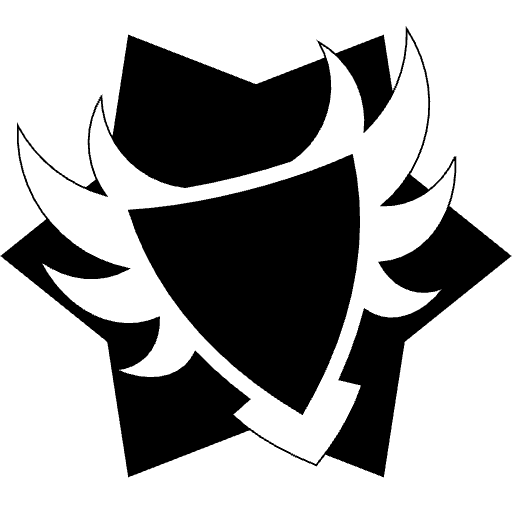
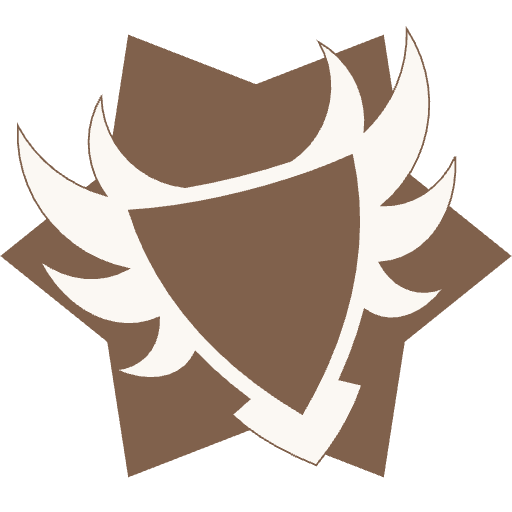
Japandi design, Home, colour mode, coloured badges

diff --git a/web/js/config.js b/web/js/config.js
@@ -8,7 +8,7 @@
 export const SUPABASE_URL = 'https://slokwrjyizqqcbxcrnbh.supabase.co'; // Portal project (care-therapist-portal)
 export const SUPABASE_ANON_KEY = 'sb_publishable_6B2Mgs05Hxe29-dqVz7h1w_wj59BmzD'; // publishable = public, safe to commit
 
-export const APP_VERSION = 'v2026-11-16-P2b';
+export const APP_VERSION = 'v2026-11-16-P2c';
 
 // Kept different from the Binder's key ('care_auth'): both apps live on the same
 // github.io address, so they share browser storage. Distinct keys keep the two

diff --git a/web/css/app.css b/web/css/app.css
@@ -514,3 +514,7 @@ code.pw { background: var(--surface); }
   .topbar .theme-btn { padding: 6px 9px; }
   .me { gap: 4px 8px; }
 }
+
+/* Badges are now coloured artwork: keep the ring quiet and neutral. */
+.badge, .badge.rim-applicant, .badge.rim-therapist, .badge.rim-senior, .badge.rim-qcd,
+.badge.rim-supervisor, .badge.rim-admin, .badge.rim-hr { border: 1px solid var(--line-strong); background: #FBF8F3; }

diff --git a/web/assets/badges/CREDITS.md b/web/assets/badges/CREDITS.md
@@ -2,7 +2,7 @@
 
 Icons from **game-icons.net**, by **Lorc**, licensed under
 **Creative Commons Attribution 3.0 (CC BY 3.0)**: https://creativecommons.org/licenses/by/3.0/
-Colours and backgrounds were changed for CARE.
+Colours and backgrounds were changed for CARE (2026-11-16: black → each rank's colour, white → cream; recoloured by a small script). The untouched originals are in `original/`.
 
 | File | Icon | Author |
 |---|---|---|
